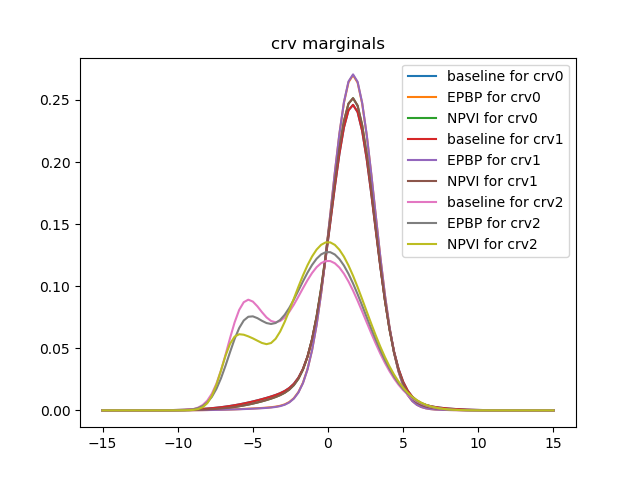
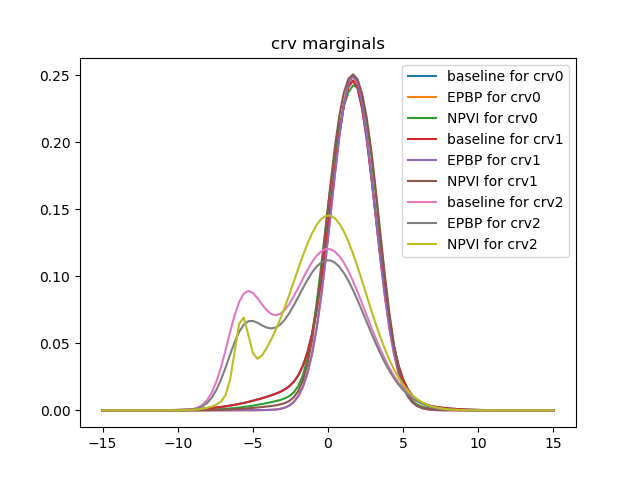
update boilderplate in hybrid_mln_experiment.py based on rgm_experiment.py to prepare for systematic experiment; rerun, NPVI (K=5) still beats EPBP
baseline:
{'cpu_time': (-1.0, 0.0),
 'kl_err': (0.0, 0.0),
 'mmap_err': (0.0, 0.0),
 'obj': (-8.885445945513634, 0.0),
 'wall_time': (-1.0, 0.0)}
EPBP:
{'cpu_time': (1.186263549, 0.0),
 'kl_err': (0.1488087053902567, 0.0),
 'mmap_err': (0.5421004258853277, 0.0),
 'obj': (-1.0, 0.0),
 'wall_time': (1.1862127780914307, 0.0)}
NPVI:
{'cpu_time': (6.8613059960000005, 0.0),
 'kl_err': (0.041075423329318655, 0.0),
 'mmap_err': (0.05404963611745289, 0.0),
 'obj': (-8.755527427376313, 0.0),
 'wall_time': (6.785726308822632, 0.0)}

diff --git a/osi/hybrid_mln_experiment.py b/osi/hybrid_mln_experiment.py
@@ -95,6 +95,7 @@ algo_names = ['baseline', 'EPBP', 'NPVI']  # , 'NPVI']  # ,'LNPVI', 'OSI', 'LOSI
 # averaged over)
 records = {algo_name: {record_field: [] for record_field in record_fields} for algo_name in algo_names}
 
+plot = True
 for test_num in range(num_tests):
     test_seed = seed + test_num
     data = {}
@@ -143,7 +144,7 @@ for test_num in range(num_tests):
     evidence = {rv: rv.value for rv in obs_rvs}
     # cond_g = utils.get_conditional_mrf(g.factors_list, g.rvs,
     #                                    evidence)  # this will also condition log_potential_funs
-    cond_g = g
+    cond_g = g  # this model has no evidence!
     print('cond number of rvs', len(cond_g.rvs))
     print('cond num drvs', len([rv for rv in cond_g.rvs if rv.domain_type[0] == 'd']))
     print('cond num crvs', len([rv for rv in cond_g.rvs if rv.domain_type[0] == 'c']))
@@ -152,16 +153,18 @@ for test_num in range(num_tests):
 
     baseline = 'exact'
     # baseline = 'gibbs'
-    for algo_name in algo_names:
+    for a, algo_name in enumerate(algo_names):
         print('####')
         print('test_num', test_num)
         print('running', algo_name)
+        np.random.seed(test_seed + a)
 
         # temp storage
-        mmap = np.zeros(len(query_rvs))
+        mmap = np.zeros(len(query_rvs)) - 123
         margs = [None] * len(query_rvs)
-        marg_kls = np.zeros(len(query_rvs))
+        marg_kls = np.zeros(len(query_rvs)) - 123
         obj = -1
+        cpu_time = wall_time = -1  # don't care
 
         if algo_name == 'baseline':
             # preprocessing
@@ -281,8 +284,6 @@ for test_num in range(num_tests):
             # save baseline
             baseline_mmap = mmap
             baseline_margs = margs
-            marg_kls = np.zeros_like(mmap)
-            cpu_time = wall_time = 0  # don't care
 
         elif algo_name == 'EPBP':
             bp = EPBP(g, n=20, proposal_approximation='simple')
@@ -297,17 +298,12 @@ for test_num in range(num_tests):
                 # marg_logpdf = lambda x: bp.belief(x, rv, log_belief=True)  # probly slightly faster if not plotting
                 marg_logpdf = utils.curry_epbp_belief(bp, rv, log_belief=True)
                 margs[i] = marg_logpdf
-                assert rv.domain_type[0] == 'c', 'only looking at kl for cnode queries for now'
-                # lb, ub = -np.inf, np.inf
-                lb, ub = -np.inf, np.inf
-                marg_kl = kl_continuous_logpdf(log_p=baseline_margs[i], log_q=margs[i], a=lb, b=ub)
-                marg_kls[i] = marg_kl
 
         elif algo_name in ('OSI', 'LOSI', 'NPVI', 'LNPVI'):
             cond = True
             if cond:
                 cond_g.init_nb()  # this will make cond_g rvs' .nb attributes consistent (baseline didn't care so it was OK)
-            K = 3
+            K = 5
             T = 16
             lr = 0.5
             its = 1000
@@ -357,45 +353,51 @@ for test_num in range(num_tests):
                 assert rv.domain_type[0] == 'c', 'only looking at kl for cnode queries for now'
                 crv_marg_params = vi.params['w'], rv.belief_params['mu'], rv.belief_params['var']
                 margs[i] = utils.get_scalar_gm_log_prob(None, *crv_marg_params, get_fun=True)
-                # lb, ub = -np.inf, np.inf
-                lb, ub = -np.inf, np.inf
-                marg_kl = kl_continuous_logpdf(log_p=baseline_margs[i], log_q=margs[i], a=lb, b=ub)
-                marg_kls[i] = marg_kl
+
+        else:
+            raise NotImplementedError
 
         # same for all algos
-        print('pred mmap', mmap)
-        print('true mmap', baseline_mmap)
+        for i, rv in enumerate(query_rvs):
+            lb, ub = -np.inf, np.inf
+            marg_kl = kl_continuous_logpdf(log_p=baseline_margs[i], log_q=margs[i], a=lb, b=ub)
+            marg_kls[i] = marg_kl
+
+        # same for all algos
+        # print('pred mmap', mmap)
+        # print('true mmap', baseline_mmap)
         mmap_err = np.mean(np.abs(mmap - baseline_mmap))
         kl_err = np.mean(marg_kls)
+        print('mmap_err', mmap_err, 'kl_err', kl_err)
         algo_record = dict(cpu_time=cpu_time, wall_time=wall_time, obj=obj, mmap_err=mmap_err, kl_err=kl_err)
         for key, value in algo_record.items():
             records[algo_name][key].append(value)
         all_margs[algo_name] = margs  # for plotting convenience
 
-print('plotting example marginal from last run')
+if plot:
+    print('plotting example marginal from last run')
+    import matplotlib.pyplot as plt
 
-import matplotlib.pyplot as plt
+    plt.figure()
+    xs = np.linspace(domain_real.values[0], domain_real.values[1], 100)
 
-plt.figure()
-xs = np.linspace(domain_real.values[0], domain_real.values[1], 100)
+    crv_idxs_to_plot = list(range(len([rv for rv in query_rvs if rv.domain_type[0] == 'c'])))
+    # num_to_plot = 1
+    num_to_plot = len(crv_idxs_to_plot)
+    crv_idxs_to_plot = crv_idxs_to_plot[:num_to_plot]
+    # crv_idxs_to_plot = [crv_idxs_to_plot[-1]]
+    for test_crv_idx in crv_idxs_to_plot:
+        # for test_crv_idx in range(len(query_rvs)):
+        for algo_name in algo_names:
+            marg_logpdf = all_margs[algo_name][test_crv_idx]
+            # plt.plot(xs, np.exp(marg_logpdf(xs)), label=f'{algo_name} for {test_crv_idx}')
+            plt.plot(xs, np.exp([marg_logpdf(x) for x in xs]), label=f'{algo_name} for crv{test_crv_idx}')
 
-crv_idxs_to_plot = list(range(len([rv for rv in query_rvs if rv.domain_type[0] == 'c'])))
-# num_to_plot = 1
-num_to_plot = len(crv_idxs_to_plot)
-crv_idxs_to_plot = crv_idxs_to_plot[:num_to_plot]
-# crv_idxs_to_plot = [crv_idxs_to_plot[-1]]
-for test_crv_idx in crv_idxs_to_plot:
-    # for test_crv_idx in range(len(query_rvs)):
-    for algo_name in algo_names:
-        marg_logpdf = all_margs[algo_name][test_crv_idx]
-        # plt.plot(xs, np.exp(marg_logpdf(xs)), label=f'{algo_name} for {test_crv_idx}')
-        plt.plot(xs, np.exp([marg_logpdf(x) for x in xs]), label=f'{algo_name} for crv{test_crv_idx}')
-
-plt.legend(loc='best')
-plt.title('crv marginals')
-# plt.show()
-save_name = __file__.split('.py')[0]
-plt.savefig('%s.png' % save_name)
+    plt.legend(loc='best')
+    plt.title('crv marginals')
+    # plt.show()
+    save_name = __file__.split('.py')[0]
+    plt.savefig('%s.png' % save_name)
 
 print('######################')
 from collections import OrderedDict
